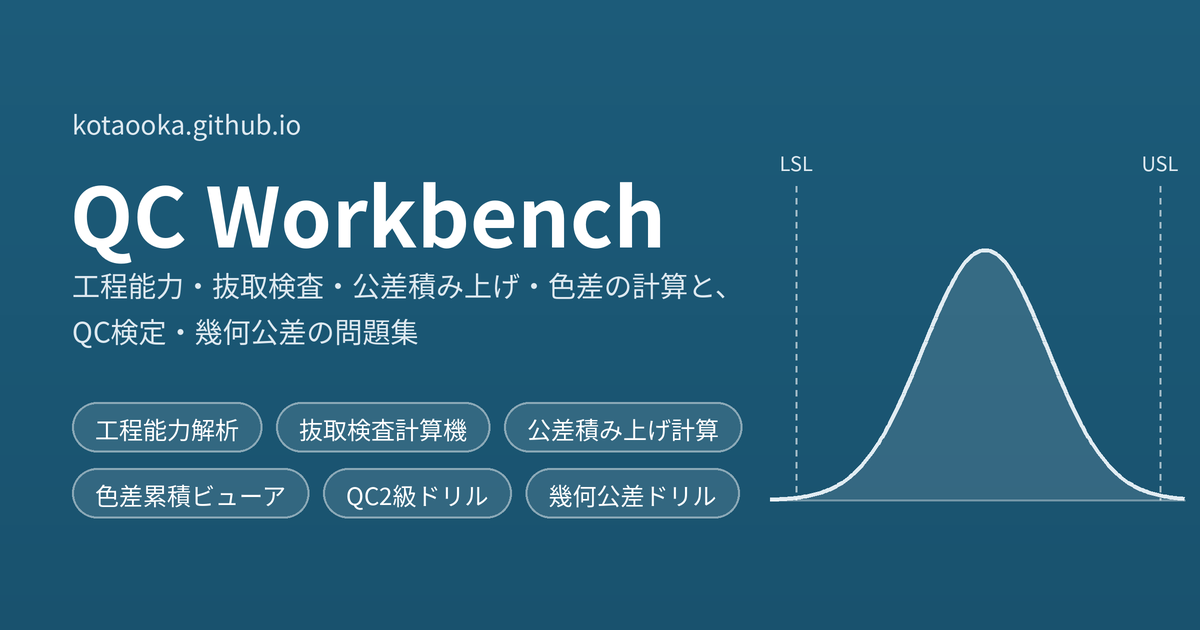
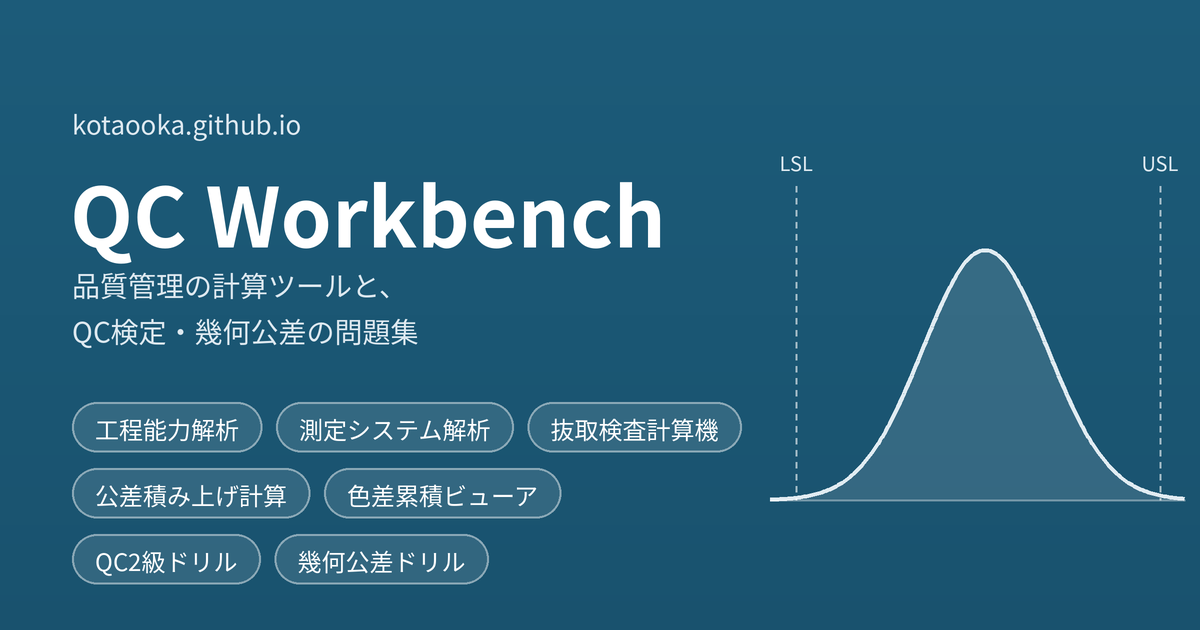
測定システム解析（msa-calc）を追加（一覧・図・紹介文・sitemap・README・og.png）

diff --git a/index.html b/index.html
@@ -4,10 +4,10 @@
 <meta charset="utf-8">
 <meta name="viewport" content="width=device-width,initial-scale=1,viewport-fit=cover">
 <title>QC Workbench｜品質管理の計算ツールと問題集</title>
-<meta name="description" content="工程能力・抜取検査・公差積み上げ・色差の計算ツールと、QC検定2級・幾何公差の問題集。">
+<meta name="description" content="工程能力・測定システム解析・抜取検査・公差積み上げ・色差の計算ツールと、QC検定2級・幾何公差の問題集。">
 <meta name="theme-color" content="#1D5C7A">
 <meta property="og:title" content="QC Workbench｜品質管理の計算ツールと問題集">
-<meta property="og:description" content="工程能力・抜取検査・公差積み上げ・色差の計算ツールと、QC検定2級・幾何公差の問題集。">
+<meta property="og:description" content="工程能力・測定システム解析・抜取検査・公差積み上げ・色差の計算ツールと、QC検定2級・幾何公差の問題集。">
 <meta property="og:type" content="website">
 <meta property="og:url" content="https://kotaooka.github.io/">
 <meta property="og:site_name" content="QC Workbench">
@@ -16,7 +16,7 @@
 <meta property="og:image" content="https://kotaooka.github.io/og.png">
 <meta property="og:image:width" content="1200">
 <meta property="og:image:height" content="630">
-<meta property="og:image:alt" content="QC Workbench：工程能力解析・抜取検査計算機・公差積み上げ計算・色差累積ビューア・QC2級ドリル・幾何公差ドリル">
+<meta property="og:image:alt" content="QC Workbench：工程能力解析・測定システム解析・抜取検査計算機・公差積み上げ計算・色差累積ビューア・QC2級ドリル・幾何公差ドリル">
 <meta name="twitter:card" content="summary_large_image">
 <link rel="canonical" href="https://kotaooka.github.io/">
 <!-- ファビコン（外部ファイル不要のインラインSVG） -->
@@ -161,7 +161,7 @@
       <h1>QC Workbench</h1>
       <button class="theme" id="themeBtn" type="button" aria-label="表示テーマを切り替え">表示：自動</button>
     </div>
-    <p class="lead">工程能力・抜取検査・公差積み上げ・色差の計算と、QC検定・幾何公差の学習。</p>
+    <p class="lead">工程能力・測定システム解析・抜取検査・公差積み上げ・色差の計算と、QC検定・幾何公差の学習。</p>
   </header>
 
   <main id="app"></main>
@@ -192,6 +192,14 @@ const tools = [
     std: ["Cp / Cpk / Pp / Ppk", "JIS Z 9020-2"],
     open: "https://kotaooka.github.io/cpk-calc/",
     repo: "https://github.com/kotaooka/cpk-calc"
+  },
+  {
+    section: "calc", fig: "gauge",
+    name: "測定システム解析",
+    desc: "ゲージR&R（ANOVA 法・平均範囲法）で繰り返し性・再現性を分け、%GRR と ndc を判定。偏り・直線性・安定性、Type-1（Cg・Cgk）、計数値の κ・有効性も。",
+    std: ["AIAG MSA 第4版", "%GRR / ndc", "κ"],
+    open: "https://kotaooka.github.io/msa-calc/",
+    repo: "https://github.com/kotaooka/msa-calc"
   },
   {
     section: "calc", fig: "oc",
@@ -257,6 +265,24 @@ const figs = {
       <line x1="8" y1="${base}" x2="124" y2="${base}" stroke="currentColor" stroke-opacity=".4"/>
       <line x1="22" y1="10" x2="22" y2="${base}" stroke="currentColor" stroke-dasharray="3 3" stroke-opacity=".7"/>
       <line x1="112" y1="10" x2="112" y2="${base}" stroke="currentColor" stroke-dasharray="3 3" stroke-opacity=".7"/>`;
+  },
+  // 測定システム解析：%GRR の目盛り（合格・条件付き・不合格の区間）と針
+  gauge() {
+    const cx = 66, cy = 70, R = 52;
+    const pt = (deg, r) => [cx + r * Math.cos(deg * Math.PI / 180), cy - r * Math.sin(deg * Math.PI / 180)];
+    // 180°（左端）〜 0°（右端）を %GRR 0〜50% に対応させる
+    const ang = v => 180 - v / 50 * 180;
+    const arc = (v0, v1, r) => { const a = pt(ang(v0), r), b = pt(ang(v1), r); return `M${a[0].toFixed(1)} ${a[1].toFixed(1)}A${r} ${r} 0 0 1 ${b[0].toFixed(1)} ${b[1].toFixed(1)}`; };
+    let ticks = "";
+    for (let v = 0; v <= 50; v += 5) { const a = pt(ang(v), R - (v % 10 ? 5 : 9)), b = pt(ang(v), R); ticks += `<line x1="${a[0].toFixed(1)}" y1="${a[1].toFixed(1)}" x2="${b[0].toFixed(1)}" y2="${b[1].toFixed(1)}" stroke="currentColor" stroke-width="${v % 10 ? 1 : 1.5}" stroke-opacity="${v % 10 ? .5 : .8}"/>`; }
+    const n = pt(ang(22), R - 14);
+    return `<path d="${arc(0, 50, R)}" fill="none" stroke="currentColor" stroke-opacity=".4"/>
+      <path d="${arc(10, 30, R - 18)}" fill="none" stroke="var(--fig-weak)" stroke-width="10"/>
+      <path d="${arc(0, 10, R - 18)}" fill="none" stroke="currentColor" stroke-width="10" stroke-opacity=".55"/>
+      ${ticks}
+      <line x1="${cx}" y1="${cy}" x2="${n[0].toFixed(1)}" y2="${n[1].toFixed(1)}" stroke="currentColor" stroke-width="2.2" stroke-linecap="round"/>
+      <circle cx="${cx}" cy="${cy}" r="4.5" fill="var(--panel)" stroke="currentColor" stroke-width="1.8"/>
+      <line x1="8" y1="${cy + 8}" x2="124" y2="${cy + 8}" stroke="currentColor" stroke-opacity=".4"/>`;
   },
   // 抜取検査：2つの方式の OC 曲線
   oc() {

diff --git a/tools/make_og.py b/tools/make_og.py
@@ -11,10 +11,11 @@ from PIL import Image, ImageDraw, ImageFont
 REPO = pathlib.Path(__file__).resolve().parent.parent
 FONT_DIR = pathlib.Path(sys.argv[1] if len(sys.argv) > 1 else "/usr/share/fonts/opentype/noto")
 
-SUBTITLE = ["工程能力・抜取検査・公差積み上げ・色差の計算と、", "QC検定・幾何公差の問題集"]
+SUBTITLE = ["品質管理の計算ツールと、", "QC検定・幾何公差の問題集"]
 TOOLS = [
-    ["工程能力解析", "抜取検査計算機", "公差積み上げ計算"],
-    ["色差累積ビューア", "QC2級ドリル", "幾何公差ドリル"],
+    ["工程能力解析", "測定システム解析", "抜取検査計算機"],
+    ["公差積み上げ計算", "色差累積ビューア"],
+    ["QC2級ドリル", "幾何公差ドリル"],
 ]
 TOP, BOTTOM = (28, 91, 121), (25, 82, 110)
 K = 2  # 縮小前の倍率（アンチエイリアス用）
@@ -40,6 +41,7 @@ def main():
     d.text((70 * K, 152 * K), "QC Workbench", font=font("Bold", 82), fill=(255, 255, 255))
     for i, line in enumerate(SUBTITLE):
         d.text((72 * K, (264 + i * 46) * K), line, font=font("Regular", 28), fill=soft)
+        assert 72 * K + d.textlength(line, font=font("Regular", 28)) < 770 * K, f"副題の行が図に重なる: {line}"
 
     pf = font("Regular", 24)
     y = 402 * K

diff --git a/README.md b/README.md
@@ -5,6 +5,7 @@
 | ツール | 公開ページ | リポジトリ |
 |---|---|---|
 | 工程能力解析 | https://kotaooka.github.io/cpk-calc/ | [cpk-calc](https://github.com/kotaooka/cpk-calc) |
+| 測定システム解析 | https://kotaooka.github.io/msa-calc/ | [msa-calc](https://github.com/kotaooka/msa-calc) |
 | 抜取検査計算機 | https://kotaooka.github.io/sampling-calc/ | [sampling-calc](https://github.com/kotaooka/sampling-calc) |
 | 公差積み上げ計算 | https://kotaooka.github.io/stackup-calc/ | [stackup-calc](https://github.com/kotaooka/stackup-calc) |
 | 色差累積ビューア | https://kotaooka.github.io/deltae-calc/ | [deltae-calc](https://github.com/kotaooka/deltae-calc) |
